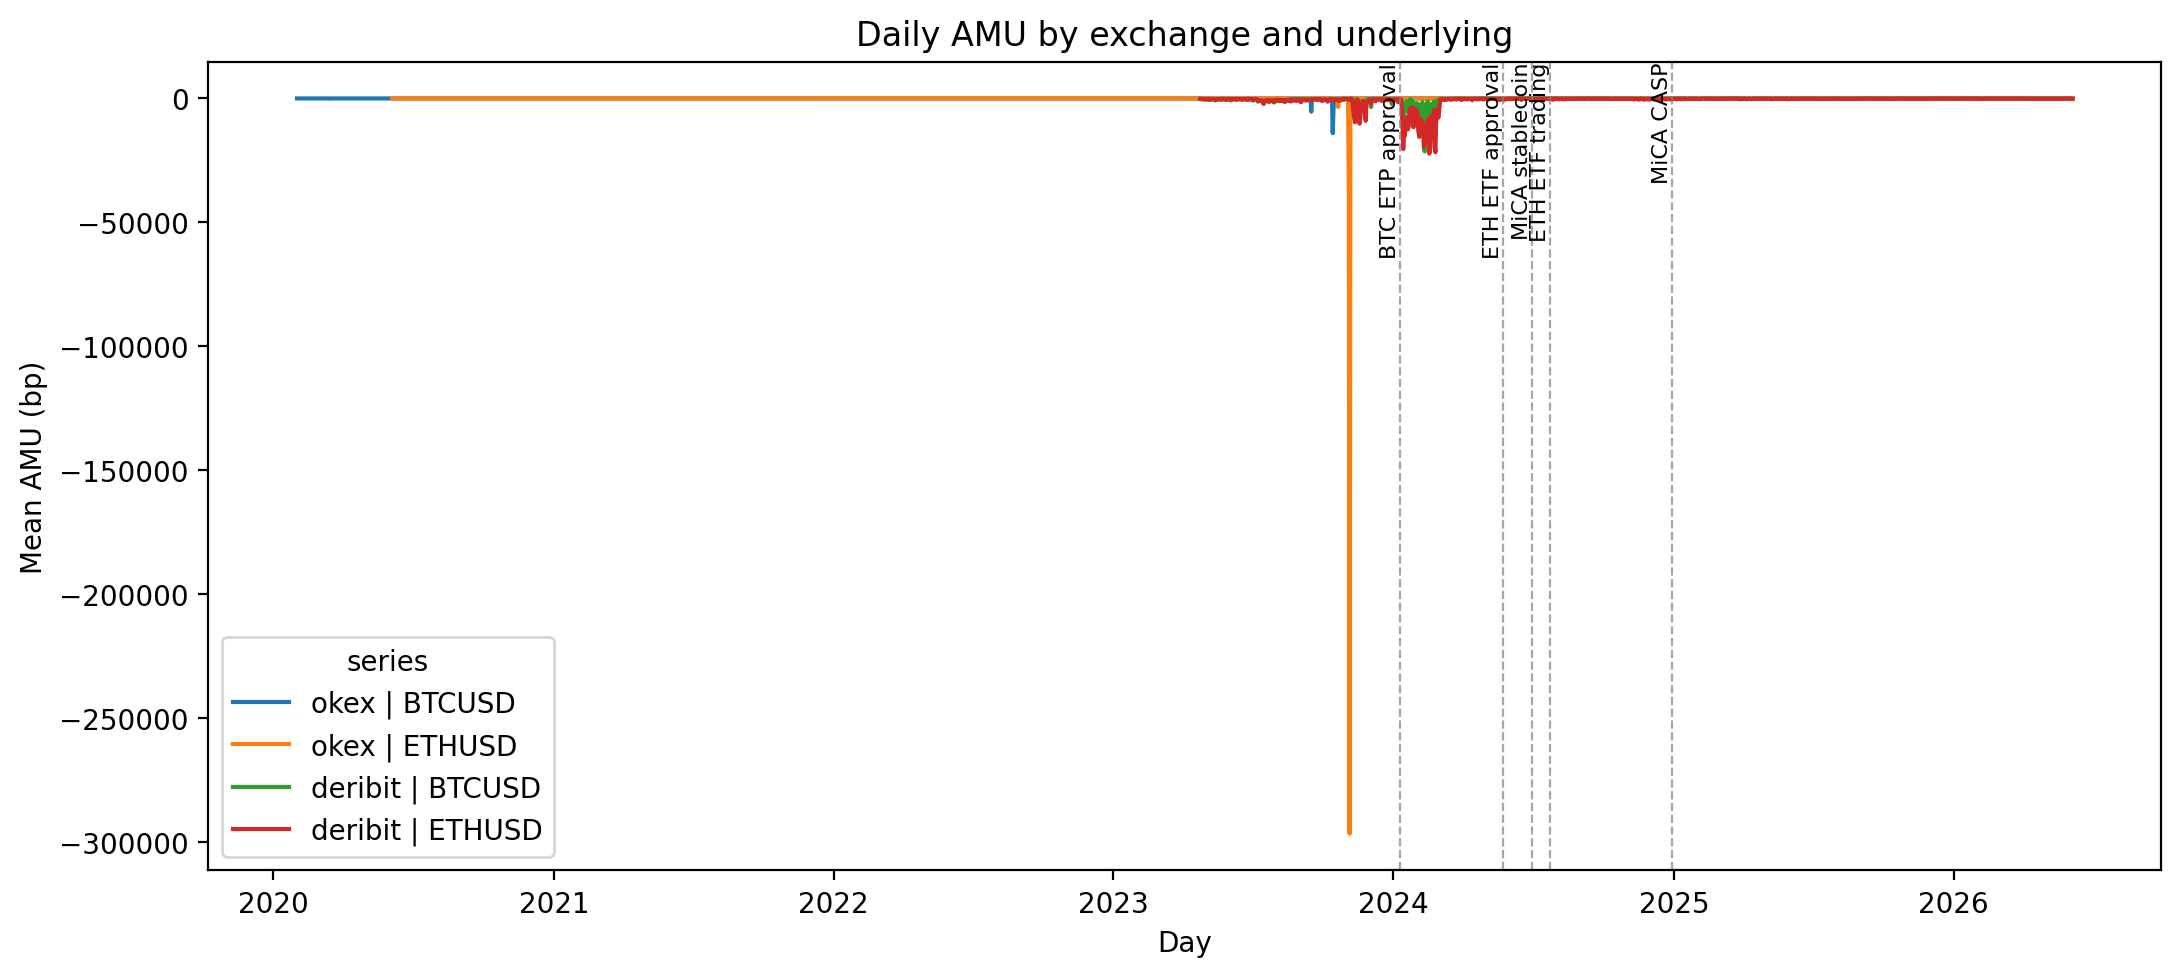
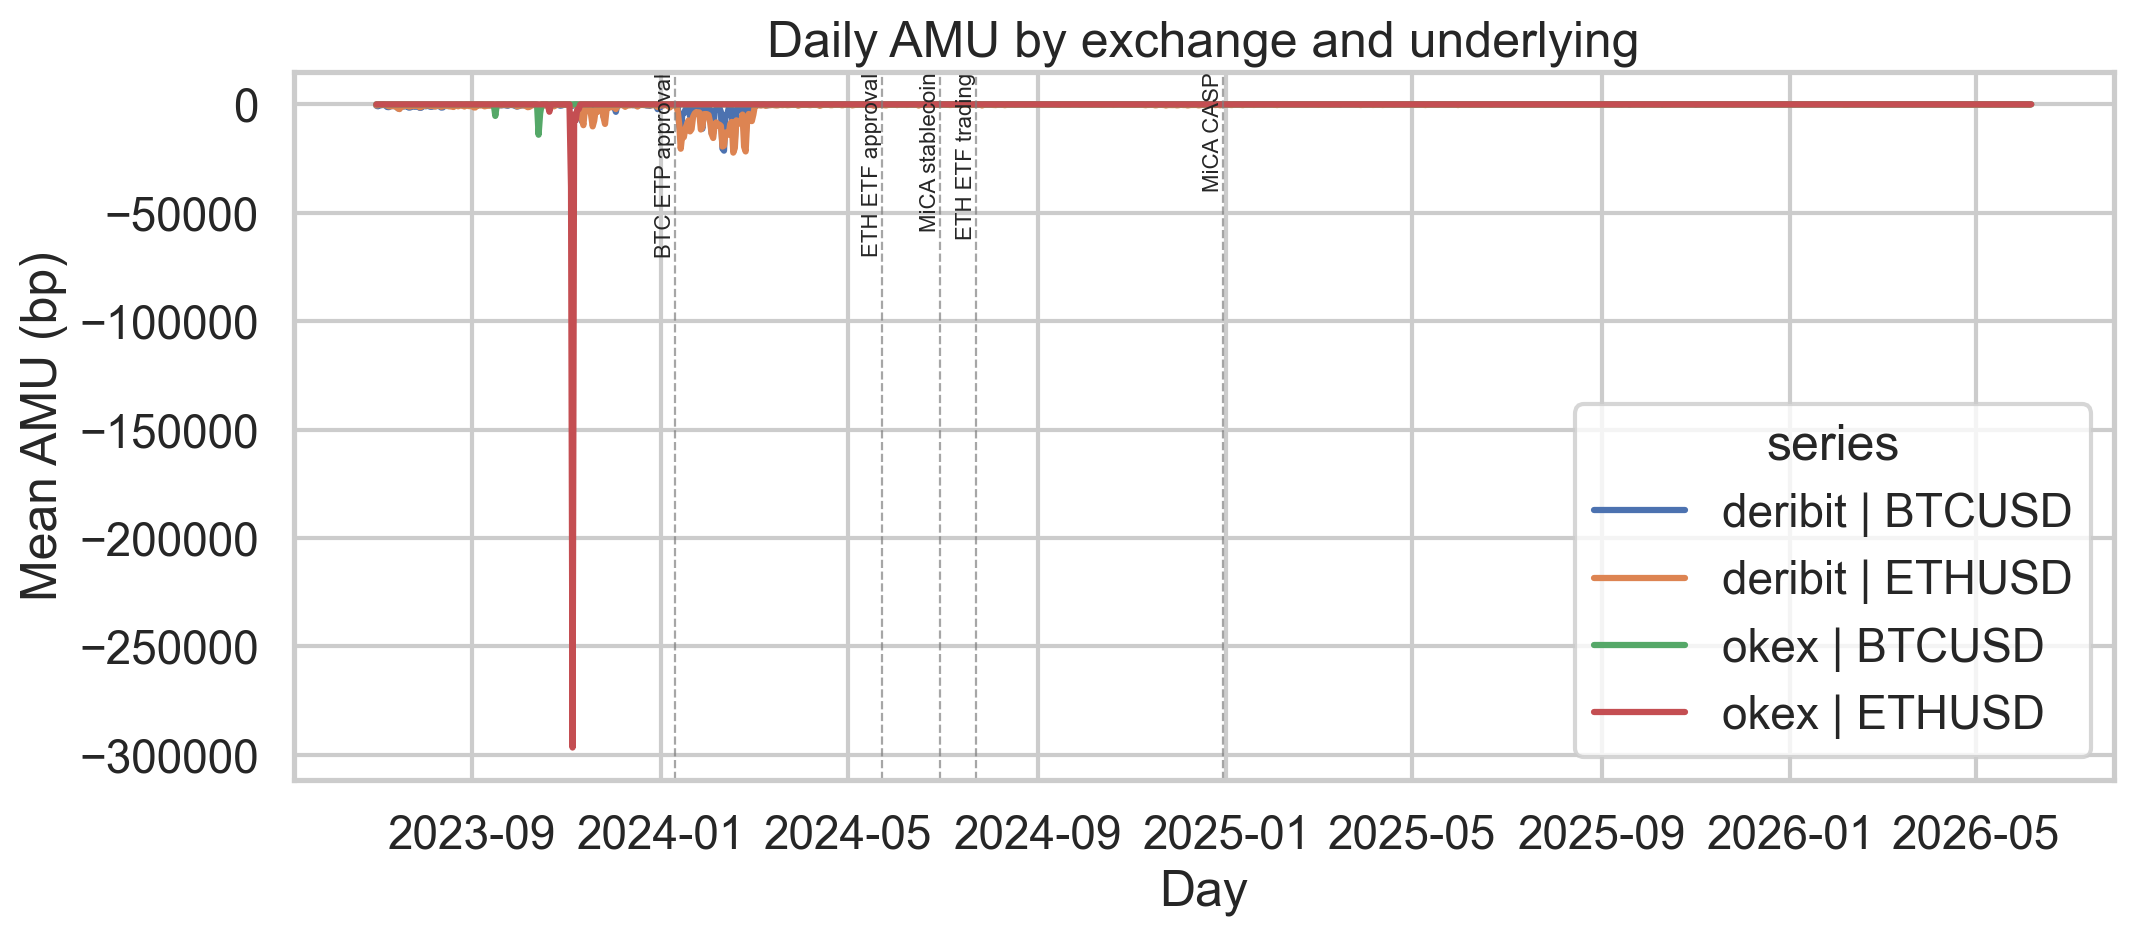
recreate plots with shorter date window

diff --git a/AMU-liquidity-premium/liquidity_figures/amu_summary_table.tex b/AMU-liquidity-premium/liquidity_figures/amu_summary_table.tex
@@ -3,11 +3,11 @@
  &  & AMU(bps) & MU occurs & Num Observations \\
 underlying & exchange &  &  &  \\
 \midrule
-\multirow[t]{2}{*}{BTCUSD} & deribit & 8.84 & 23,531,689 & 38,085,618 \\
- & okex & 46.98 & 64,783,904 & 33,188,271 \\
+\multirow[t]{2}{*}{BTCUSD} & deribit & 8.55 & 22,210,908 & 36,990,571 \\
+ & okex & 46.87 & 41,659,271 & 21,362,009 \\
 \cline{1-5}
-\multirow[t]{2}{*}{ETHUSD} & deribit & 11.06 & 17,113,929 & 23,393,792 \\
- & okex & 47.17 & 42,965,244 & 21,982,995 \\
+\multirow[t]{2}{*}{ETHUSD} & deribit & 10.81 & 16,428,737 & 22,772,247 \\
+ & okex & 46.95 & 24,987,133 & 12,805,002 \\
 \cline{1-5}
 \bottomrule
 \end{tabular}

diff --git a/AMU-liquidity-premium/liquidity_figures/summary_daily_option_coverage_table.tex b/AMU-liquidity-premium/liquidity_figures/summary_daily_option_coverage_table.tex
@@ -3,11 +3,11 @@
  & \multicolumn{2}{c}{BTCUSD} & \multicolumn{2}{c}{ETHUSD} \\
  & deribit & okex & deribit & okex \\
 \midrule
-Avg num contracts & 116 & 51 & 71 & 36 \\
+Avg num contracts & 120 & 71 & 74 & 43 \\
 Avg num expirations & 7 & 5 & 7 & 4 \\
-Avg num strikes & 30 & 21 & 20 & 18 \\
-Avg call spread (bp) & 98 & 0 & 211 & 0 \\
-Avg put spread (bp) & 170 & 0 & 182 & 0 \\
-Num days in sample & 1139 & 2269 & 1139 & 2145 \\
+Avg num strikes & 31 & 27 & 21 & 20 \\
+Avg call spread (bp) & 95 & 0 & 215 & 0 \\
+Avg put spread (bp) & 168 & 0 & 183 & 0 \\
+Num days in sample & 1071 & 1045 & 1071 & 1045 \\
 \bottomrule
 \end{tabular}
